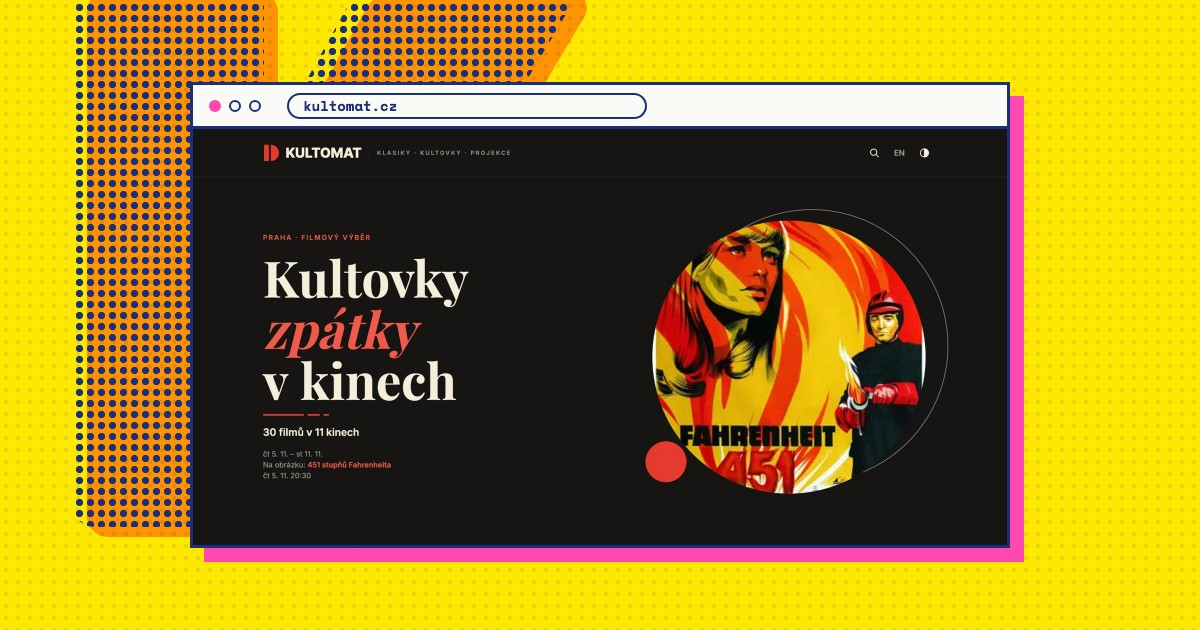
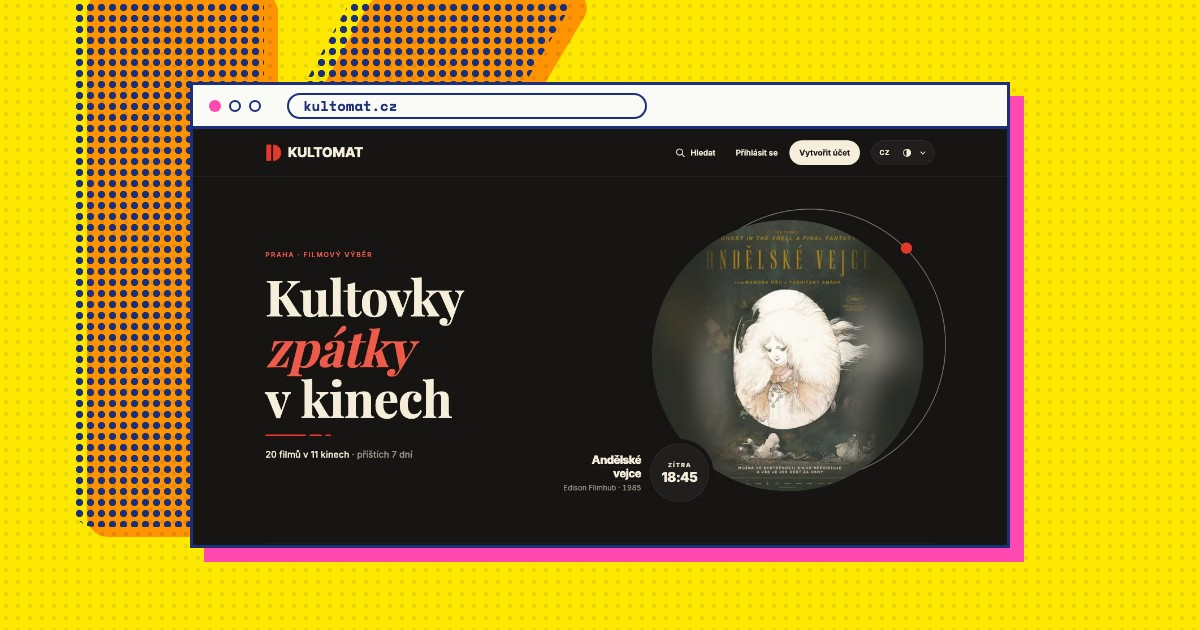
feat: bring the Kultomat case study up to 14 November (#44)
* fix: space above the case study facts panel on phones

* feat: bring the Kultomat case study up to 14 November

Public sign-up, profiles, the digest, the free-tier performance work and
current numbers in both languages; new home page screenshots for the
figures and the landing card. work-previews.mjs can rebuild one project.

* test: stop tying the case study test to the number of outcome sources

---------

diff --git a/tests/e2e/case-study.spec.ts b/tests/e2e/case-study.spec.ts
@@ -253,7 +253,8 @@ test.describe('case study template', () => {
       'S čím pomohla AI',
     )
     await expect(page.locator('figcaption').first()).toContainText('Obr. 1 ·')
-    await expect(page.getByText(/^Zdroj:/)).toHaveCount(1)
+    // Every outcome with a metric has a source line; how many is content.
+    await expect(page.getByText(/^Zdroj:/).first()).toBeVisible()
   })
 
   const order = [

diff --git a/AGENTS.md b/AGENTS.md
@@ -23,7 +23,7 @@ Before changing code, inspect the relevant files and the documentation for the i
 - `pnpm placeholders`: after `pnpm build`, lists every `[…]` placeholder left in `dist/` per page (report only; `--fail` exits 1 when any remain and is part of `pnpm verify`).
 - `scripts/flash-check.mjs` (manual, not a pnpm script): approximate WCAG 2.3.1 flash check of a looping element on a served build (`node scripts/flash-check.mjs <url> <selector>`). Usage and limits are in its header and in `docs/audits/2026-11-05/flash-analysis.md`.
 - `scripts/portrait.mjs` (manual, not a pnpm script): rebuilds the About portrait masks in `src/assets/portrait/` from a source photo (`node scripts/portrait.mjs <photo.jpg>`). The source photo is not committed; the generated files carry no camera metadata (LEG-007).
-- `scripts/work-previews.mjs` (manual, not a pnpm script): rebuilds the project preview images in `src/assets/work/` (landing cards, case study `og:image`) from one home-page screenshot per project (`node scripts/work-previews.mjs <screenshot-dir>`). The raw screenshots are not committed.
+- `scripts/work-previews.mjs` (manual, not a pnpm script): rebuilds the project preview images in `src/assets/work/` (landing cards, case study `og:image`) from one home-page screenshot per project (`node scripts/work-previews.mjs <screenshot-dir> [slug ...]`; with slugs it rebuilds only those projects). The raw screenshots are not committed.
 - `scripts/brand-assets.mjs` (manual, not a pnpm script): rebuilds the favicons, app icons and the site-wide social preview images in `public/` from the canvas design, with text from the dictionaries and the committed fonts (`node scripts/brand-assets.mjs`). Run it when the mark, name, role or claim changes.
 - `scripts/subset-fonts.py` (manual, not a pnpm script): rebuilds the site-subset font files in `src/assets/fonts/` when new copy needs a character they lack. Steps and requirements are in `src/assets/fonts/README.md`.
 - `pnpm test:e2e`: Playwright end-to-end tests in `tests/e2e/` (Chromium, with axe). It builds the site with `SHOW_DRAFTS=1` (so draft case studies are tested) and serves it with `wrangler dev` on port 8788, so `public/_headers` and production 404 handling apply. First run: `pnpm exec playwright install chromium`. Not part of `pnpm verify`; CI runs it in its own job.
